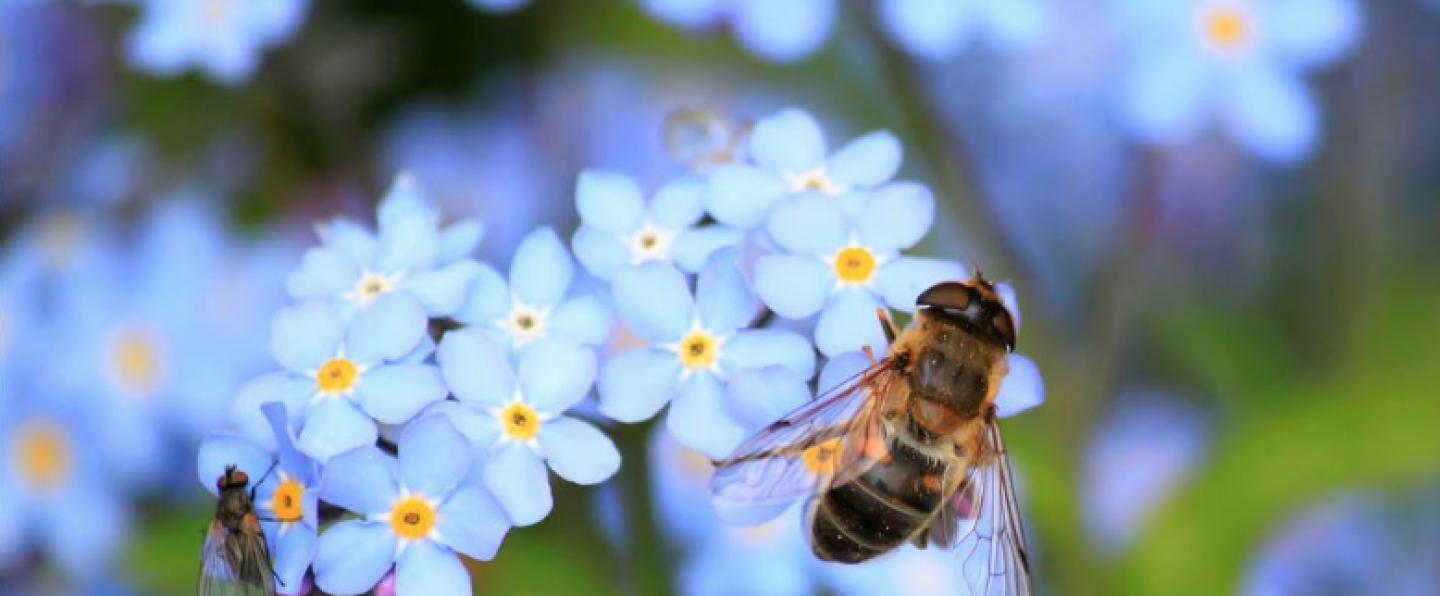
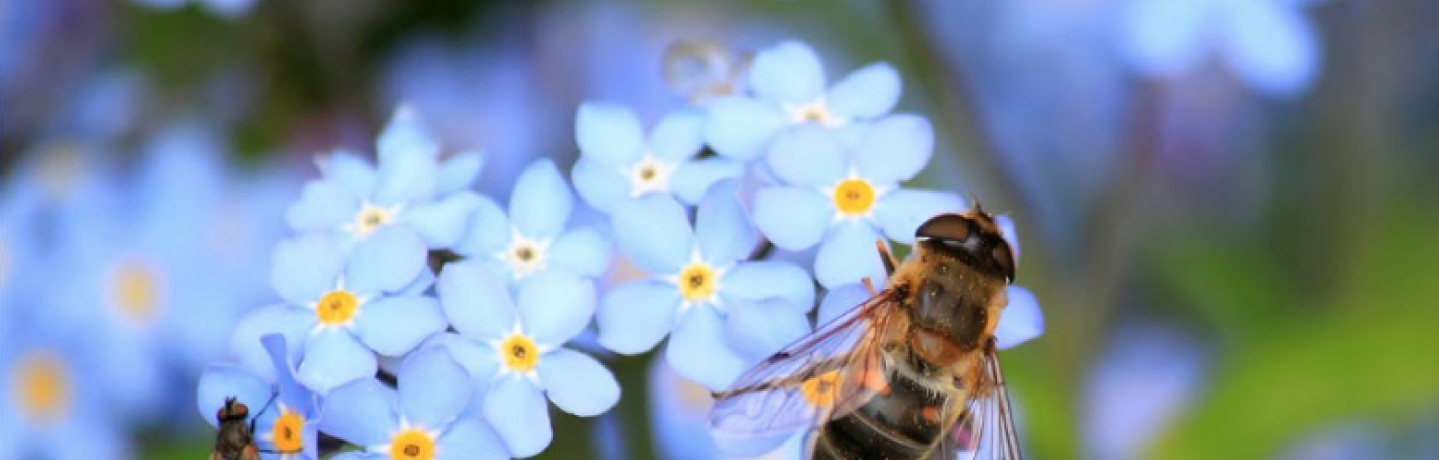
updated all hero header images for currently complete pages

diff --git a/src/pages/becoming-a-beekeeper.js b/src/pages/becoming-a-beekeeper.js
@@ -3,7 +3,7 @@ import React, { useState } from "react"
 import Layout from "../components/layout"
 import SEO from "../components/seo"
 import HeroHeader from "../components/heroheader"
-import Beeimg from "../images/heroheader3.png"
+import BABimage from "../images/BABimage.png"
 import Index from "../components/becoming-a-beekeeper/index"
 import General from "../components/becoming-a-beekeeper/general"
 import CommittingToBeekeeping from "../components/becoming-a-beekeeper/committing-to-beekeeping.js"
@@ -101,7 +101,7 @@ const IndexPage = () => {
     <Layout>
       <SEO title="Becoming A BeeKeeper" />
       <OverLay onClick={() => setToggle(!toggle)} show={toggle} />
-      <HeroHeader img={Beeimg} text={"become a beekeeper"} />
+      <HeroHeader img={BABimage} text={"become a beekeeper"} />
       <FlexContainer>
         <GridContainer>
           <StickyButton onClick={() => setToggle(!toggle)}>

diff --git a/src/pages/index.js b/src/pages/index.js
@@ -3,7 +3,7 @@ import React from "react"
 import Layout from "../components/layout"
 import SEO from "../components/seo"
 import HeroHeader from '../components/heroheader'
-import Beeimg from "../images/heroheader1.png"
+import HomePageImage from "../images/HomePageImage.png"
 import Whybeekeeping from "../components/homepage/WhyBeekeeping"
 import coneimg from "../images/homebeecones.png"
 
@@ -11,7 +11,7 @@ import coneimg from "../images/homebeecones.png"
 const IndexPage = () => (
   <Layout>
     <SEO title="Home" />
-    <HeroHeader img={Beeimg} text={"WELCOME TO THE UTAH COUNTY BEEKEEPERS ASSOCIATION"} />
+    <HeroHeader img={HomePageImage} text={"WELCOME TO THE UTAH COUNTY BEEKEEPERS ASSOCIATION"} />
     <Whybeekeeping img={coneimg}></Whybeekeeping>
   </Layout>
 )

diff --git a/src/pages/report-a-swarm.js b/src/pages/report-a-swarm.js
@@ -3,7 +3,7 @@ import React from "react"
 import Layout from "../components/layout"
 import SEO from "../components/seo"
 import HeroHeader from '../components/heroheader'
-import BeeSwarmimg from "../images/RASheroimage.png"
+import SwarmImage from "../images/SwarmImage.png"
 import ReportASwarm from "../components/report-a-swarm/reportASwarm"
 
 
@@ -11,7 +11,7 @@ import ReportASwarm from "../components/report-a-swarm/reportASwarm"
 const ReportASwarmPage = () => (
     <Layout>
         <SEO title="Report A Swarm" />
-        <HeroHeader img={BeeSwarmimg} text={"Report A Swarm"} />
+        <HeroHeader img={SwarmImage} text={"Report A Swarm"} />
         <ReportASwarm></ReportASwarm>
     </Layout>
 )

diff --git a/src/pages/licensing.js b/src/pages/licensing.js
@@ -3,7 +3,7 @@ import React from "react"
 import Layout from "../components/layout"
 import SEO from "../components/seo"
 import HeroHeader from "../components/heroheader"
-import Beeimg from "../images/heroheader3.png"
+import BABimage from "../images/BABimage.png"
 import LicensingInfo from "../components/becoming-a-beekeeper/licensing/LicensingInfo"
 
 function Licensing() {
@@ -11,7 +11,7 @@ function Licensing() {
         <Layout>
         <SEO title="Licensing" />
         
-        <HeroHeader img={Beeimg} text={"licensing"} />        
+        <HeroHeader img={BABimage} text={"licensing"} />        
            
             <LicensingInfo />
             
